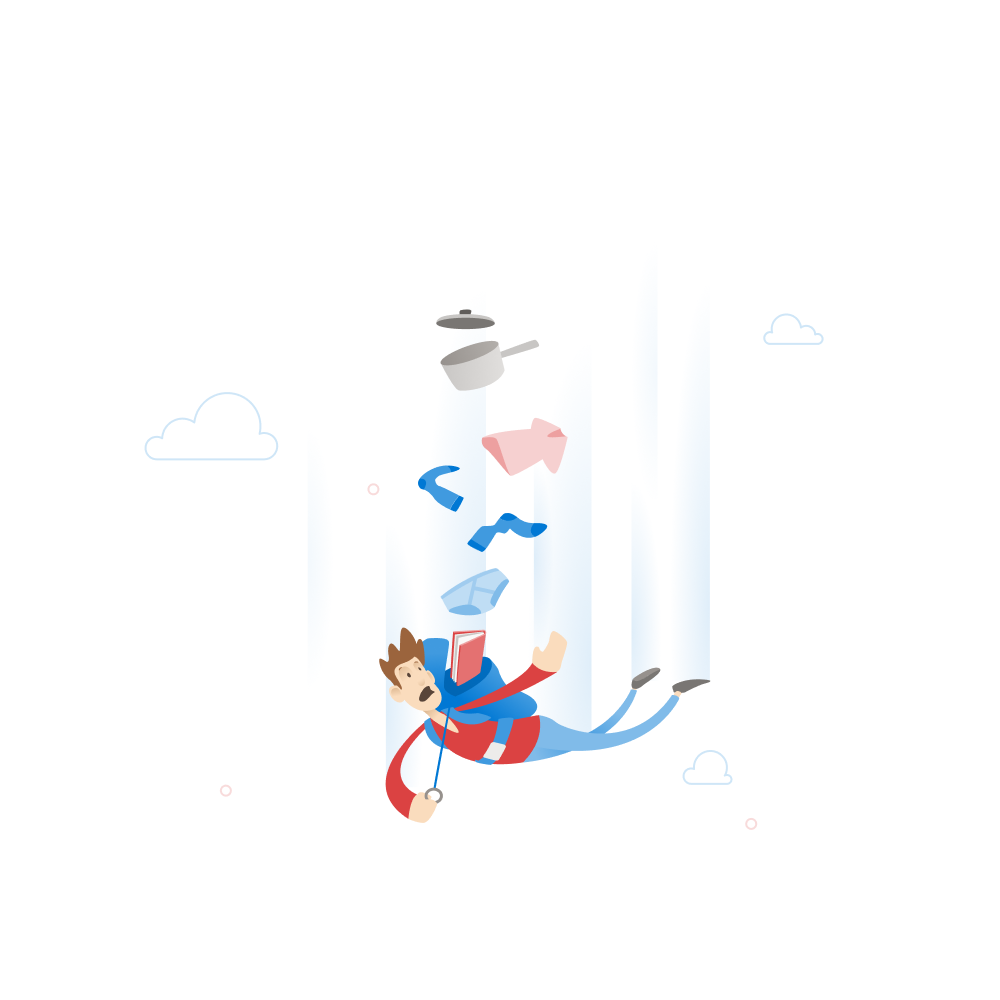
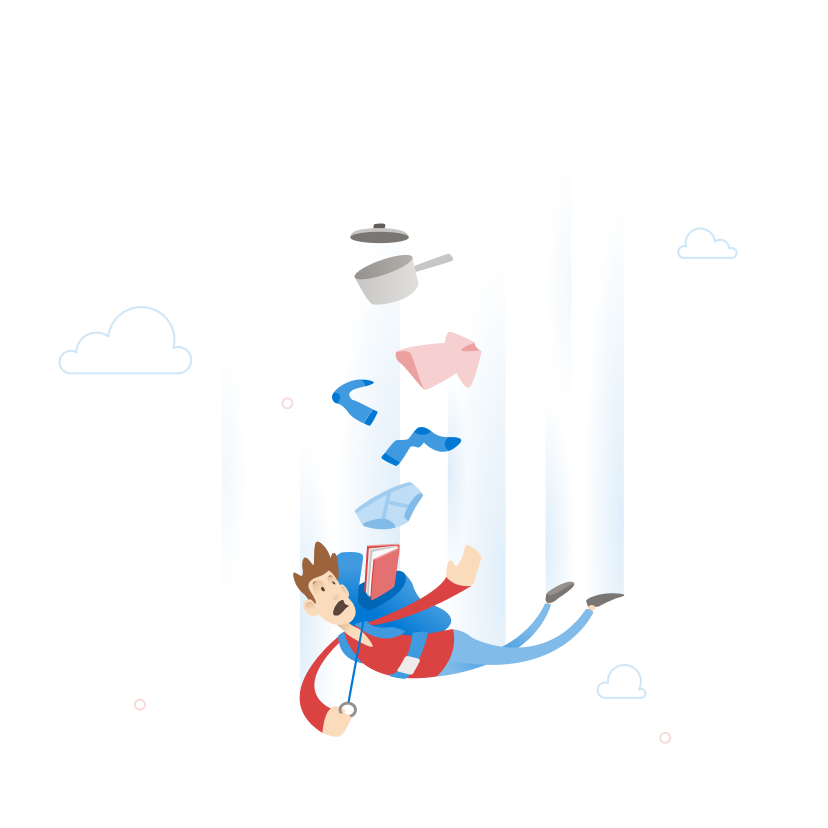
tune the position for error pages and admin page

diff --git a/templates/404.html b/templates/404.html
@@ -1,23 +1,23 @@
 {% extends "error.html" %}
 
 {% block error_detail %}
-<section class="page_404" style="padding:40px 0; background:#fff;">
+<section class="page_404">
 	<div class="container">
 		<div class="row">	
 		<div class="col-sm-12 ">
 		<div class="col-sm-10 col-sm-offset-1  text-center">
-            <div style="background: url(https://storage.googleapis.com/utd/assets/oops.gif) no-repeat center center; background-size: auto 100%; height: 450px;">
+            <div style="background: url(https://storage.googleapis.com/utd/assets/oops.gif) no-repeat center center; background-size: auto 100%; height: 400px;">
 			<h1 class="text-center" style="font-size:40px;">Oops!</h1>
 		    </div>
 		
-		<div class="contant_box_404" style="margin-top:-70px;">
+		<div class="contant_box_404" style="margin-top:-100px;">
 		<h3 class="h2">
 		Looks like you're lost
 		</h3>
 		
 		<p>Jupyter has lots of moons, but this is not one...</p>
 		
-		<a href="/home" class="link_back" style="color: #fff!important;padding: 10px 20px;background: #39ac31;margin: 20px 0;display: inline-block;">Go to Home</a>
+		<a href="/home" class="link_back" style="color: #fff!important;padding: 10px 20px;background: #39ac31; display: inline-block;">Go to Home</a>
 	</div>
 		</div>
 		</div>

diff --git a/templates/400.html b/templates/400.html
@@ -1,7 +1,7 @@
 {% extends "error.html" %}
 
 {% block error_detail %}
-<section class="page_404" style="padding:40px 0; background:#fff;">
+<section class="page_400" style="margin-top:-17px;">
 	<div class="container">
 		<div class="row">	
 		<div class="col-sm-12 ">
@@ -9,14 +9,14 @@
             <div style="background: url(https://storage.googleapis.com/utd/assets/fall.png) no-repeat center center; background-size: auto 100%; height: 400px;">
 		    </div>
 		
-		<div class="contant_box" style="margin-top:-30px;">
+		<div class="contant_box" style="margin-top:-50px;">
 		<h3 class="h2">
 		Looks like you're got something wrong.
 		</h3>
 		
 		<p>Jupyter has lots of moons, but this is not one...</p>
 		
-		<a href="/hub/home" class="link_back" style="color: #fff!important;padding: 10px 20px;background: #39ac31;margin: 20px 0;display: inline-block;">Back to Login</a>
+		<a href="/hub/home" class="link_back" style="color: #fff!important;padding: 10px 20px;background: #39ac31; display: inline-block;">Back to Login</a>
 	</div>
 		</div>
 		</div>

diff --git a/templates/admin.html b/templates/admin.html
@@ -17,8 +17,8 @@
 
 {% block main %}
 
-<div class="container" style="height: calc(100vh - 100px)">
-  <table class="table table-striped">
+<div class="container">
+  <table class="table table-striped" style="margin-bottom: 0;">
     <thead>
       <tr>
         {% block thead %}
@@ -100,13 +100,11 @@
       {% endblock user_row %}
       {% endfor %}
       {% endfor %}
-  </tbody>
+    </tbody>
   </table>
-    <div class="row">
-        <div style="background: url(https://storage.googleapis.com/utd/assets/find.png) no-repeat center center; background-size: auto 100%; height: 400px;"></div>
-    </div>
+  <div class="row" style="background: url(https://storage.googleapis.com/utd/assets/find.png) no-repeat center center; background-size: auto 100%; height: 350px;"></div>
 </div>
-<div class="container-fluid navbar-default small version_footer">
+<div class="container-fluid navbar-default small version_footer footer navbar-fixed-bottom">
   <div class="navbar-text">
     JupyterHub {{ server_version }}
   </div>

diff --git a/templates/403.html b/templates/403.html
@@ -1,7 +1,7 @@
 {% extends "error.html" %}
 
 {% block error_detail %}
-<section class="page_404" style="padding:40px 0; background:#fff;">
+<section class="page_403" style="margin-top:-70px;">
 	<div class="container">
 		<div class="row">	
 		<div class="col-sm-12 ">
@@ -17,7 +17,7 @@
 		
 		<p>Jupyter has lots of moons, but this is not one...</p>
 		
-		<a href="/hub/home" class="link_back" style="color: #fff!important;padding: 10px 20px;background: #39ac31;margin: 20px 0;display: inline-block;">Back to Login</a>
+		<a href="/hub/home" class="link_back" style="color: #fff!important;padding: 10px 20px;background: #39ac31; display: inline-block;">Back to Login</a>
 	</div>
 		</div>
 		</div>

diff --git a/templates/oauth.html b/templates/oauth.html
@@ -19,7 +19,7 @@
     It will not be able to take actions on your behalf.
     {% endif %}
   </p>
-    <div style="background: url(https://storage.googleapis.com/utd/assets/connect.svg) no-repeat center center; background-size: auto 100%; height: 300px;"></div>
+    <div style="background: url(https://storage.googleapis.com/utd/assets/connect.svg) no-repeat center center; background-size: auto 100%; height: 210px;"></div>
 
   <h3>The application will be able to:</h3>
   <div>
